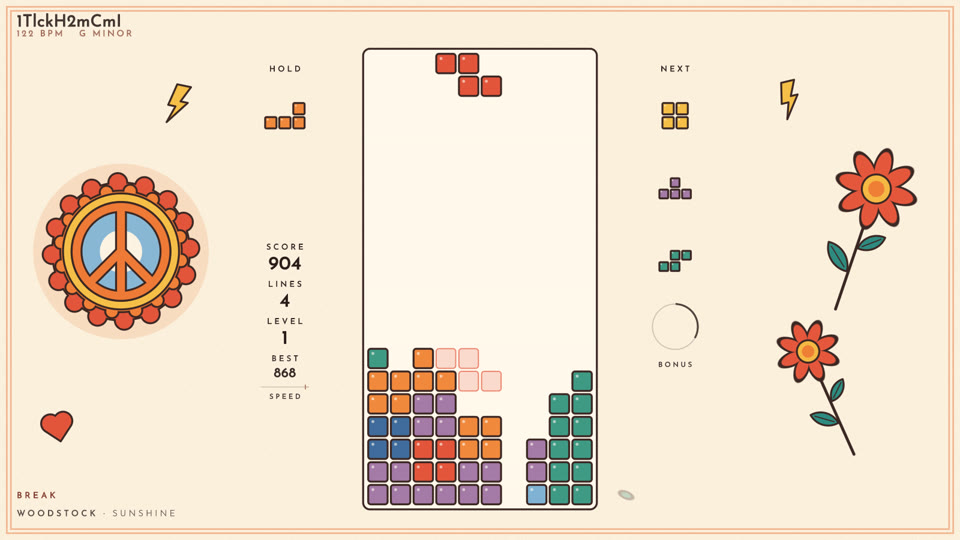
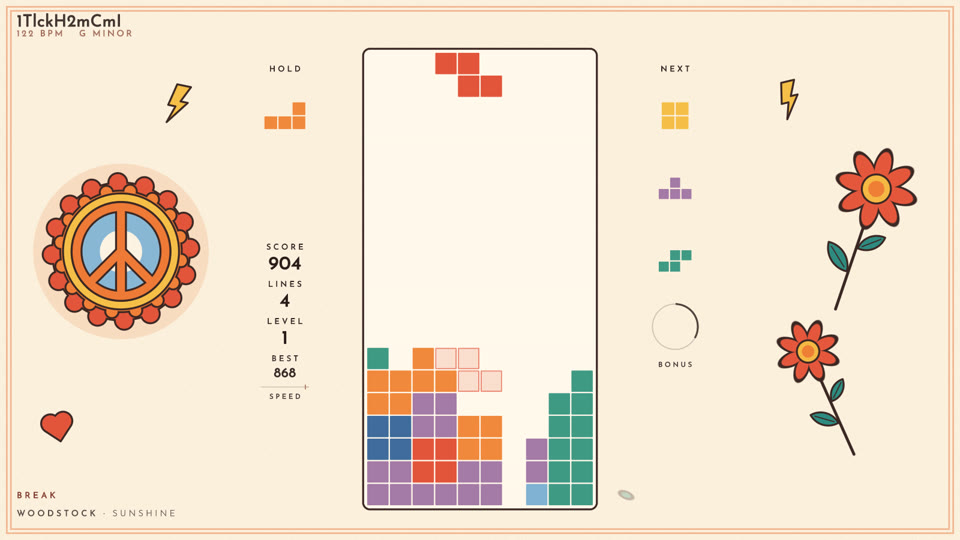
WOODSTOCK: truly flat blocks (a single fill per cell, a hairline gap, no outline, shading or highlight)
Claude-Session: https://claude.ai/code/session_01TRpCVe8qgHvBr5qwovmpX7

diff --git a/src/universes/woodstock/shaders.hpp b/src/universes/woodstock/shaders.hpp
@@ -1,8 +1,8 @@
 #pragma once
 // WOODSTOCK's shaders. Flat 70s sticker art in display (sRGB) colors: every shape a signed distance field in flat
-// color with one even ink outline (OUTLINE board units, the same on the motifs, the petals and the blocks). The
-// paper behind everything (its grain, the thin double border, the sunburst peace disc, the two daisies, the small
-// heart and bolts, the well's panel), the drifting petals and hearts, the blocks.
+// color with one even ink outline (OUTLINE board units, the same on the motifs and the petals). The paper behind
+// everything (its grain, the thin double border, the sunburst peace disc, the two daisies, the small heart and bolts,
+// the well's panel), the drifting petals and hearts, the blocks (plain flat squares, no outline).
 
 namespace woodstock_shaders {
 
@@ -253,32 +253,26 @@ inline const char* CELL_FS = R"(
 in vec2 vU;
 flat in vec4 vB, vC;
 out vec4 frag;
-uniform vec3 uInk, uShine;
-uniform float uW;          // the outline (in cells, at scale 1)
+uniform vec3 uShine;
+uniform float uGap;        // the hairline between cells (board units, the same at any scale)
+uniform float uLine;       // the ghost's line (board units)
 void main() {
     vec2 u = vU;
-    AA = max(fwidth(u.x), 1e-4) * 0.75;
-    float W = uW / max(vB.w, 0.3);
+    AA = max(fwidth(u.x), 1e-4) * 0.6;
+    float sc = max(vB.w, 0.3);
     vec3 col = vC.rgb;
-    float d = dBox(u, vec2(0.47), 0.16);
+    // one flat square of the piece's color, a hairline gap around it, corners barely rounded
+    float d = dBox(u, vec2(0.5 - uGap * 0.5 / sc), 0.035);
     float a = cov(d);
-    vec3 c;
+    vec3 c = col;
     if (abs(vB.z - 1.0) < 0.5) {
         // the ghost: a faint wash of the piece's color inside a thin line of it
-        float line = cov(abs(d + W * 0.5) - W * 0.3);
-        c = col;
-        a = max(a * 0.18, line * 0.75);
-    } else {
-        // a flat sticker: the color inside the ink line, one small pale glint in its corner
-        c = mix(uInk, col, cov(d + W));
-        float g = length(u - vec2(-0.22, 0.22)) - 0.065;
-        c = mix(c, mix(col, uShine, 0.6), cov(g));
-        // a lock's brief brightening, the game over's greying
-        if (vC.w < 0.0) c = mix(c, uShine, -vC.w);
-        else {
-            float l = dot(c, vec3(0.299, 0.587, 0.114));
-            c = mix(c, vec3(l) * 0.8 + 0.1, vC.w);
-        }
+        float W = uLine / sc;
+        a = max(a * 0.16, cov(abs(d + W * 0.5) - W * 0.5) * 0.7);
+    } else if (vC.w < 0.0) c = mix(c, uShine, -vC.w);   // a lock's brief brightening
+    else {
+        float l = dot(c, vec3(0.299, 0.587, 0.114));     // the game over's greying
+        c = mix(c, vec3(l) * 0.8 + 0.1, vC.w);
     }
     float al = a * vB.y;
     frag = vec4(c * al, al);

diff --git a/src/universes/woodstock/woodstock.cpp b/src/universes/woodstock/woodstock.cpp
@@ -7,9 +7,9 @@
 // small bolts. Lots of calm paper around them; no lettering in the scene. Now and then a petal comes off a daisy and
 // drifts down.
 //
-// The well is a pale panel inside the same ink line. The blocks are flat stickers in the same language: one rounded
-// square of flat color inside the ink outline (the same weight as the motifs'), a small pale glint in its corner;
-// seven soft retro colors, one per piece type. The ghost is a faint wash of the piece's color inside a thin line of it.
+// The well is a pale panel inside the same ink line. The blocks are truly flat: one square of a single flat color
+// per cell (no outline, no shading, no highlight), a hairline gap between cells, the corners barely rounded; seven
+// soft retro colors, one per piece type. The ghost is a faint wash of the piece's color inside a thin line of it.
 //
 // The music: calm and mid stay sparse and slow (the sway a little wider at mid). A DROP section (music.inDrop
 // only) warms the paper and the halo, opens the halo into a burst of soft rays around the disc, makes the
@@ -671,9 +671,9 @@ void WoodstockUniverse::render(const Frame& f, GLuint fbo) {
         if (!cells_.empty()) {
             glUseProgram(progCell_);
             ugl::setMat(progCell_, "uVP", vp_);
-            set3f(progCell_, "uInk", col_[BLOCK_INK]);
             set3f(progCell_, "uShine", vec3(1.f, 0.98f, 0.94f));
-            set1f(progCell_, "uW", OUTLINE);
+            set1f(progCell_, "uGap", 0.06f);
+            set1f(progCell_, "uLine", 0.05f);
             glBindVertexArray(cellVao_);
             glBindBuffer(GL_ARRAY_BUFFER, cellVbo_);
             glBufferData(GL_ARRAY_BUFFER, cells_.size() * sizeof(CellInst), cells_.data(), GL_STREAM_DRAW);

diff --git a/docs/universes.md b/docs/universes.md
@@ -563,7 +563,7 @@ Left out of the default build for now (`-DZENTRIS_DISABLED_UNIVERSES=""` builds 
 
 ![WOODSTOCK](universes/woodstock.jpg)
 
-A calm 70s peace-and-love sticker sheet, flat and sober (code in `src/universes/woodstock/`, `--universe woodstock`): cream paper with a faint grain and a thin double border framing the screen, and in the free space beyond the HUD columns a few flat motifs in one even ink outline and a short warm palette: on the left a sunburst disc (two rings of scallops turning very slowly around a yellow ring, a pale sky and an upright peace sign, on a soft halo); on the right two daisies on slim stems with two leaves each, swaying gently with the bars; a small heart and two small bolts. Lots of calm paper around them, no lettering in the scene; now and then a petal comes off a daisy and drifts down. The well is a pale panel inside the same ink line; the blocks are flat stickers in the same language (one rounded square of soft retro color inside the ink outline, a small pale glint in its corner, one color per piece type); the ghost is a faint wash of the piece's color inside a thin line of it. Calm and mid stay sparse and slow; a DROP section (`music.inDrop` only) warms the paper and the halo, opens the halo into a burst of soft pointed rays, makes the scallops pulse gently on the beat, the disc turn a little faster and the daisies shed more petals, then settles over a few seconds. A cleared row's cells shrink away, a petal drifts out of the well's side for each line and a heart pops softly over the rows (three for a quad); slow motion is dusk (the colors drained toward lilac, the motion slowed); game over greys the stack from the top. Four variants (SUNSHINE, APRICOT, SAGE, MIDNIGHT: cream lines on deep plum), from the key, mode, brightness and air. The motifs are original, generic period iconography. Its own lettering (`ZEN_HUD=universe`): Fraunces Soft Italic and Comfortaa Bold (SIL Open Font License, `src/universes/woodstock/OFL-*.txt`).
+A calm 70s peace-and-love sticker sheet, flat and sober (code in `src/universes/woodstock/`, `--universe woodstock`): cream paper with a faint grain and a thin double border framing the screen, and in the free space beyond the HUD columns a few flat motifs in one even ink outline and a short warm palette: on the left a sunburst disc (two rings of scallops turning very slowly around a yellow ring, a pale sky and an upright peace sign, on a soft halo); on the right two daisies on slim stems with two leaves each, swaying gently with the bars; a small heart and two small bolts. Lots of calm paper around them, no lettering in the scene; now and then a petal comes off a daisy and drifts down. The well is a pale panel inside the same ink line; the blocks are truly flat (one square of a single soft retro color per cell, no outline, shading or highlight, a hairline gap between cells, the corners barely rounded; one color per piece type); the ghost is a faint wash of the piece's color inside a thin line of it. Calm and mid stay sparse and slow; a DROP section (`music.inDrop` only) warms the paper and the halo, opens the halo into a burst of soft pointed rays, makes the scallops pulse gently on the beat, the disc turn a little faster and the daisies shed more petals, then settles over a few seconds. A cleared row's cells shrink away, a petal drifts out of the well's side for each line and a heart pops softly over the rows (three for a quad); slow motion is dusk (the colors drained toward lilac, the motion slowed); game over greys the stack from the top. Four variants (SUNSHINE, APRICOT, SAGE, MIDNIGHT: cream lines on deep plum), from the key, mode, brightness and air. The motifs are original, generic period iconography. Its own lettering (`ZEN_HUD=universe`): Fraunces Soft Italic and Comfortaa Bold (SIL Open Font License, `src/universes/woodstock/OFL-*.txt`).
 
 ## ISLANDS
 
@@ -809,7 +809,7 @@ busy, kitsch or classical ideas and those rated C (not interesting, like DE STIJ
 | 130 | PLANKS | Wooden plank blocks (1 : 3 : 15) in a white studio, BRICKS' spirit in wood: each cell a solid block of three stained planks, the plank architecture in the village beside the well | Each cleared row's middle planks are pushed out Jenga style and build a plank village beside the well (a tower, a temple, a track and a train, a pagoda, houses receding into the haze), landing on the beat; ripples run up the village every two beats, the train shuttles at a peak, the drop speeds it up; game over topples it all | ✅ |
 | 131 | TIDE POOL | The whole universe behind the well; one continuous zoom inward through fifteen scales: the cosmic web, a galaxy, a star, a planet, its coast, the shore, a rock pool, the floor's anemones and limpets, plankton, a diatom's glass, a living cell, then imagined physics (molecules, breathing orbitals, quantum foam, strings) and the universe again | Each cleared line zooms deeper, calmly (the strings at scene completion, ~50 lines for a 3:20 song; a quad glides a whole scale deeper), game over pulls all the way back out; the tide is the music, a slow swell every two bars at every scale; the drop is a wave washing over, deep down a ripple through the fabric | ✅ |
 | 132 | LOST PANDA | A little kawaii panda lost in the city at night, in one continuous shot through a world cut away like a cross-section: the rainy street, the shopping street, down the stairs into the subway, a train through the tunnel and out at dawn, the industrial district, the fields, the bamboo forest, the glade; the blocks are bamboo segments | Each cleared line sends lights and a bamboo snack to it and it walks on (the subway comes on its timetable and waits for the cub at the platform; the family at scene completion, ~50 lines for a 3:20 song: the camera stops and it runs across behind the well to them); fed, it grows stronger; at a peak it nods on the beat grid, the drop lifts its spirits with a glow and rising lights | ✅ |
-| 133 | WOODSTOCK | A calm 70s peace-and-love sticker sheet on cream paper: a slow sunburst peace disc, two swaying daisies, a heart and two bolts in one even ink line, flat outlined retro blocks | Slow turns and sways with the bars, a petal drifting now and then; the drop opens the halo into soft rays, pulses the scallops on the beat and warms the paper; cleared rows let a petal drift out and a heart pop softly | ✅ |
+| 133 | WOODSTOCK | A calm 70s peace-and-love sticker sheet on cream paper: a slow sunburst peace disc, two swaying daisies, a heart and two bolts in one even ink line, truly flat retro blocks | Slow turns and sways with the bars, a petal drifting now and then; the drop opens the halo into soft rays, pulses the scallops on the beat and warms the paper; cleared rows let a petal drift out and a heart pop softly | ✅ |
 | 134 | ARCHITECT | A modern villa built over one song on an empty field by two tower cranes, an architectural rendering in 3D: white render, concrete, wood, glass with the rooms behind it, a pool; the pieces are pigmented board-formed concrete with tie holes | Each cleared row is a delivery: a crane picks the next room or element up behind the well and lowers it, swinging softly, into place (50 paced lines, morning to dusk); sparks and the mixer's drum on the beat grid, beacons at a peak; the drop switches the floodlights on; at dusk the rooms light up and the pool glows | ✅ |
 | 135 | ISLANDS | One continuous flight over an endless tropical archipelago, like drone footage, in 3D: volcanic islands with cliffs and waterfalls, sandy cays, atolls with their lagoon and reef, a lighthouse islet, villages with bungalows on stilts, a white villa with its pool, deck and jetty; turquoise shallows, sailboats, catamarans and speedboats with their wakes, a seaplane, seabirds; the pieces are polished sea glass | Calm = high, wide shots (now and then above the clouds, the sea curving away); mid = cruising, dipping low past each island; peak = skimming the waves; the drop is one big dive into a regatta (spinnakers, golden light, dolphins, fireworks at night); every cleared row launches a sailboat in its pieces' colors, a fleet growing over the song (a field of lanterns at dusk); the day passes from midday to dusk over the song | ✅ |
 | 136 | RUINS | Ancient ruins in a jungle, in real 3D: temples, colonnades, stairs and arches overgrown with roots, vines and moss, mist and light shafts through the canopy; the blocks are ancient pillar sections (carved stone drums), one clean stone silhouette per cell | Time running backwards: from a dense jungle, the jungle recedes and the ruins repair themselves with the lines until the temple stands in its prime (paced, 50 lines); the drop turns the sun to golden hour (warm low light raking the stones) for the drop's length | ✅ |

diff --git a/README.md b/README.md
@@ -122,7 +122,7 @@ song, and between songs the game takes a short break into the next universe. Fif
 <td><img src="docs/universes/coralreef.jpg"><br><b>CORAL REEF</b>: a sunny reef from bare rock and white sand to a dense coral garden over one song: every cleared row bursts into bubbles and drifting seeds that plant brain corals, staghorns, sea fans, sponges and table corals behind the well, while schools of fish follow the melody; caustics pulse with the kicks, a manta glides past on the drop, slow motion turns the water deep blue; the blocks are pale sun-bleached coral<br><sub>🔍 <i>to review</i></sub></td>
 </tr>
 <tr>
-<td><img src="docs/universes/woodstock.jpg"><br><b>WOODSTOCK</b>: a calm 70s peace-and-love sticker sheet on cream paper, flat and sober: a sunburst peace disc turning slowly, two daisies swaying with the bars, a small heart and bolts, all in one even ink outline; flat outlined retro blocks; the drop opens the disc's halo into soft rays and warms the paper; cleared rows let a petal drift out and a heart pop softly<br><sub>🔍 <i>to review</i></sub></td>
+<td><img src="docs/universes/woodstock.jpg"><br><b>WOODSTOCK</b>: a calm 70s peace-and-love sticker sheet on cream paper, flat and sober: a sunburst peace disc turning slowly, two daisies swaying with the bars, a small heart and bolts, all in one even ink outline; truly flat retro blocks (a single fill per cell, a hairline gap); the drop opens the disc's halo into soft rays and warms the paper; cleared rows let a petal drift out and a heart pop softly<br><sub>🔍 <i>to review</i></sub></td>
 <td><img src="docs/universes/architect.jpg"><br><b>ARCHITECT</b>: a modern villa built over one song on an empty green field: every cleared row is a delivery, a tower crane lowering the next room, glazing or roof into place with the load swinging softly on its cables; the pool is dug, tiled and filled, the garden planted, the cranes leave, and at dusk the rooms light up and the pool glows; the drop switches the site's floodlights on; the blocks are pigmented architectural concrete with tie holes<br><sub>🔍 <i>to review</i></sub></td>
 </tr>
 <tr>
